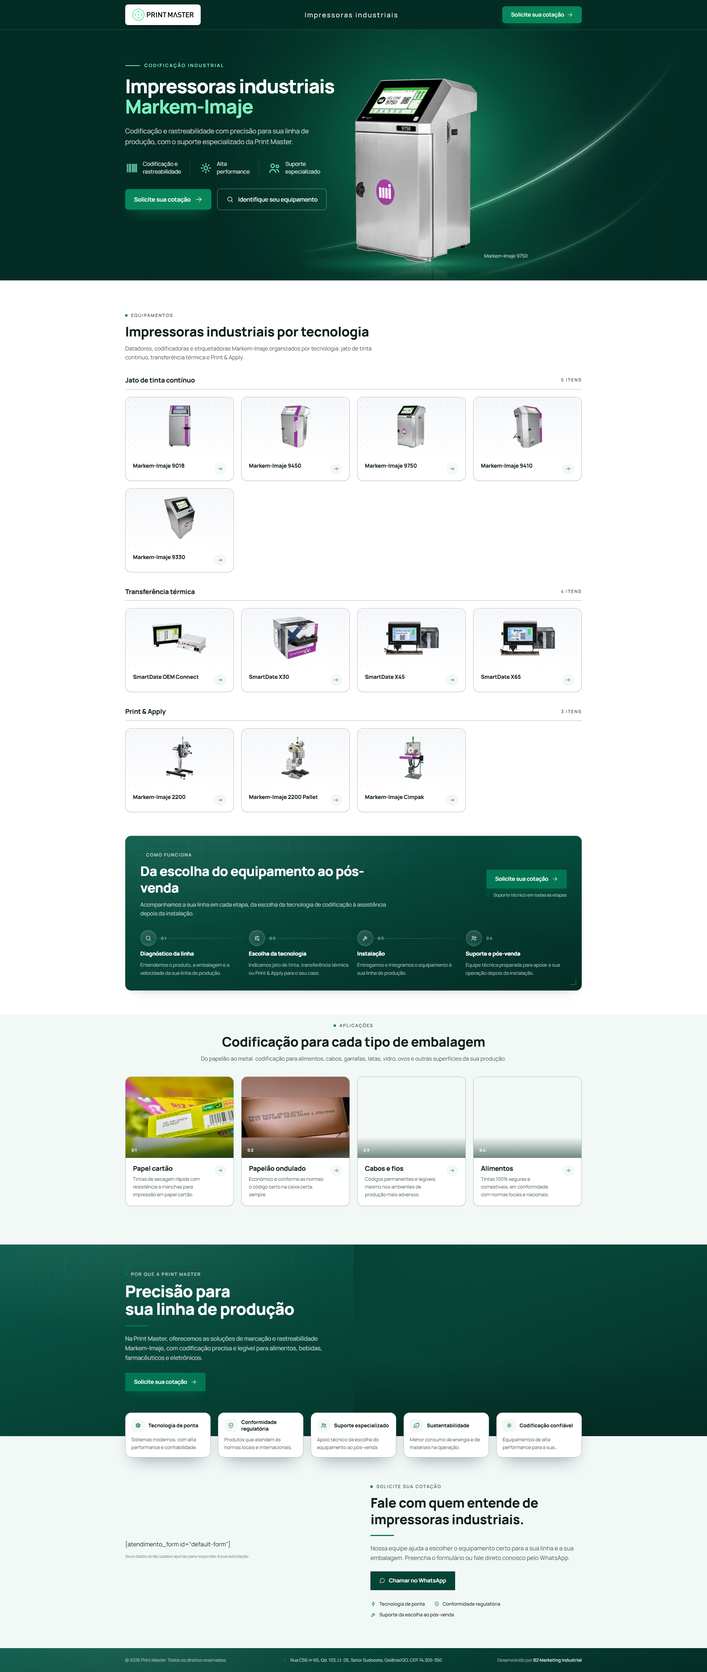
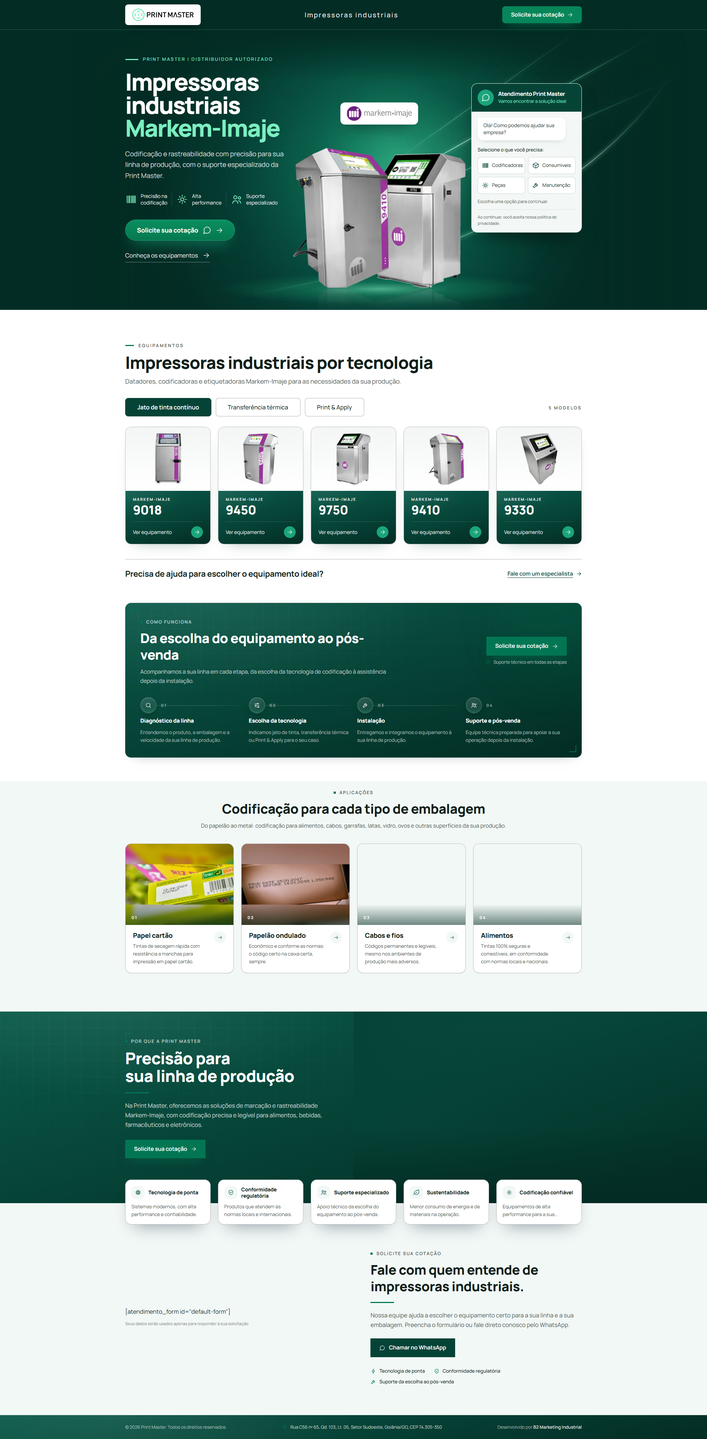
feat: abertura no 2º mockup da Print Master
- eyebrow "Print Master | Distribuidor autorizado" e selo com o logo da
  Markem-Imaje, por decisão do usuário no mockup (registrado no BRIEFING);
- H1 em três linhas com "Markem-Imaje" em menta, destaques compactos
  ("Precisão na codificação", "Alta performance", "Suporte especializado");
- botão em pílula com WhatsApp e link "Conheça os equipamentos" até a
  vitrine (âncora com recuo para o header fixo);
- banner novo com o 9410 e o 9750 lado a lado, halo, feixes de luz e
  reflexo, esmaecido no topo quando encolhe;
- fora do WordPress o shortcode cru do chat vira a prévia do widget de
  atendimento antes da primeira pintura (sem CLS); no WordPress, o chat real.

diff --git a/src/data/content.ts b/src/data/content.ts
@@ -13,6 +13,7 @@ import type { Photo } from './types'
 import { site } from './site'
 
 import heroBg from '@assets/heroBg.png'
+import heroMarca from '@assets/heroMarca.png'
 
 /* ------------------------------------------------------------------ tipos */
 
@@ -48,19 +49,22 @@ export const header = {
 /* -------------------------------------------------------------------- hero */
 
 export const hero = {
-  eyebrow: 'Codificação industrial',
+  /** Selo de distribuidor: decisão do usuário no mockup de abertura (26/10/2026). */
+  eyebrow: 'Print Master | Distribuidor autorizado',
   title: site.product,
-  /** Trecho do H1 que vai para a segunda linha, em menta (mockup de 26/10/2026). */
+  /** Trecho do H1 que vai para a última linha, em menta (mockup de 26/10/2026). */
   highlight: 'Markem-Imaje',
   text: 'Codificação e rastreabilidade com precisão para sua linha de produção, com o suporte especializado da Print Master.',
   banner: {
     src: heroBg,
-    alt: 'Impressora jato de tinta Markem-Imaje 9750 em destaque sobre fundo verde-escuro',
+    alt: 'Impressoras jato de tinta Markem-Imaje 9410 e 9750 lado a lado sobre fundo verde-escuro',
   },
-  /** Legenda do equipamento do banner. */
-  caption: 'Markem-Imaje 9750',
+  /** Selo branco com o logo da marca, acima dos equipamentos. */
+  badge: { src: heroMarca, alt: 'Markem-Imaje' },
+  /** Link que leva à vitrine, no lugar do segundo botão (mockup de 26/10/2026). */
+  link: 'Conheça os equipamentos',
   points: [
-    { icon: 'barcode', line1: 'Codificação e', line2: 'rastreabilidade' },
+    { icon: 'barcode', line1: 'Precisão na', line2: 'codificação' },
     { icon: 'gear', line1: 'Alta', line2: 'performance' },
     { icon: 'users', line1: 'Suporte', line2: 'especializado' },
   ],
@@ -70,8 +74,37 @@ export const hero = {
   highlight: string
   text: string
   banner: Photo
-  caption: string
+  badge: Photo
+  link: string
   points: readonly [HeroPoint, HeroPoint, HeroPoint]
+}
+
+/**
+ * Prévia do chat do hero, só fora do WordPress: no lugar do texto cru do shortcode, a página
+ * mostra como o widget de atendimento aparece (mockup de 26/10/2026). No WordPress o plugin
+ * troca o shortcode pelo chat de verdade e esta prévia não é usada.
+ */
+export const chatPreview = {
+  title: 'Atendimento Print Master',
+  subtitle: 'Vamos encontrar a solução ideal',
+  greeting: 'Olá! Como podemos ajudar sua empresa?',
+  prompt: 'Selecione o que você precisa:',
+  options: [
+    { id: 'codificadoras', icon: 'barcode', label: 'Codificadoras' },
+    { id: 'consumiveis', icon: 'box', label: 'Consumíveis' },
+    { id: 'pecas', icon: 'gear', label: 'Peças' },
+    { id: 'manutencao', icon: 'wrench', label: 'Manutenção' },
+  ],
+  hint: 'Escolha uma opção para continuar.',
+  privacy: 'Ao continuar, você aceita nossa política de privacidade.',
+} as const satisfies {
+  title: string
+  subtitle: string
+  greeting: string
+  prompt: string
+  options: readonly { id: string; icon: IconName; label: string }[]
+  hint: string
+  privacy: string
 }
 
 /* ----------------------------------------------------------------- cotação */

diff --git a/src/styles/global.css b/src/styles/global.css
@@ -48,6 +48,11 @@
     scroll-behavior: smooth;
   }
 
+  /* Âncoras (o "Conheça os equipamentos" do hero) param abaixo do header fixo. */
+  section[id] {
+    scroll-margin-top: 5.5rem;
+  }
+
   body {
     @apply bg-neutral-light font-sans text-ink antialiased;
   }

diff --git a/docs/BRIEFING.md b/docs/BRIEFING.md
@@ -24,7 +24,7 @@
 | Origem                     | informada                                                                                                                                                                                            |
 | Área atendida              | **não confirmada** — o endereço em Goiânia/GO não define a área comercial; a página não diz geografia além do rodapé                                                                                 |
 | Negativas de oferta        | ausentes                                                                                                                                                                                             |
-| Claims proibidos           | ausentes no briefing; ainda assim o selo "Distribuidor autorizado" da página atual ficou de fora (autorização da Markem-Imaje não registrada)                                                        |
+| Claims proibidos           | ausentes no briefing; "Distribuidor autorizado" e o logo da Markem-Imaje entraram no hero por decisão do usuário no mockup de abertura de 26/10/2026, o mesmo uso da página atual do cliente         |
 | Divergência de vocabulário | o cliente diz "impressoras industriais" e "transferência térmica"; a campanha compra também datador, datadeira, codificadora e TTO — o texto da vitrine usa datadores, codificadoras e etiquetadoras |
 
 ### Famílias de palavra-chave
@@ -90,7 +90,7 @@ Derivada em: 26/10/2026 · comando aplicado: `npm run compose -- vitrine process
 | 4   | CONTEXTO_DE_USO         | linhas de produção                                                                  | briefing                                    |
 | 5   | PUBLICO                 | Produção, Engenharia, Qualidade, Compras                                            | **inferido**                                |
 | 6   | HERO                    | codificação e rastreabilidade, alta performance, suporte especializado              | briefing                                    |
-| 7   | MARCAS_ATENDIDAS        | Markem-Imaje, só por extenso                                                        | logo de terceiro sem autorização registrada |
+| 7   | MARCAS_ATENDIDAS        | Markem-Imaje: logo no selo do hero, por extenso no resto                            | decisão do usuário (mockup de 26/10/2026)   |
 | 8   | SELOS_DE_CONFIANCA      | tecnologia de ponta, conformidade regulatória, suporte da escolha ao pós-venda      | briefing                                    |
 | 9   | ENDERECO                | Rua C56 nº 65, Qd. 103, Lt. 05, Setor Sudoeste, Goiânia/GO, CEP 74.305-350          | briefing                                    |
 | 10  | URL_FINAL + PRIVACIDADE | `https://printmaster.net.br/lp-impressoras-industriais-markem-imaje/`; sem política | **inferido** — URL da página atual          |
@@ -104,10 +104,11 @@ Derivada em: 26/10/2026 · comando aplicado: `npm run compose -- vitrine process
 
 > Nenhum asset ficou em `assets.pendentes`: todos os slots receberam imagens da página atual do cliente. Os que estão marcados **provisório** passam no `check:lp`, mas precisam ser trocados pelo material definitivo, mantendo o nome do arquivo.
 
-| Asset          | Arquivo esperado        | Especificação                               | Status                                                                                                                       |
-| -------------- | ----------------------- | ------------------------------------------- | ---------------------------------------------------------------------------------------------------------------------------- |
-| Logo           | `src/assets/LOGO.png`   | logotipo recortado (1040×240), transparente | entregue — logotipo do site, na caixa branca do header (`width={260} height={60}`)                                           |
-| Banner do hero | `src/assets/heroBg.png` | 1981×900, equipamento no centro (50%)       | **provisório** — montagem do mockup de 26/10/2026: 9750 recortado do site com halo, arcos de luz e reflexo sobre fundo verde |
+| Asset          | Arquivo esperado           | Especificação                               | Status                                                                                                                                              |
+| -------------- | -------------------------- | ------------------------------------------- | --------------------------------------------------------------------------------------------------------------------------------------------------- |
+| Logo           | `src/assets/LOGO.png`      | logotipo recortado (1040×240), transparente | entregue — logotipo do site, na caixa branca do header (`width={260} height={60}`)                                                                  |
+| Banner do hero | `src/assets/heroBg.png`    | 1981×900, equipamento no centro (50%)       | **provisório** — montagem do mockup de 26/10/2026: 9410 e 9750 recortados do site, lado a lado, com halo, feixes de luz e reflexo sobre fundo verde |
+| Selo da marca  | `src/assets/heroMarca.png` | logo Markem-Imaje recortado                 | entregue — logo da página atual do cliente                                                                                                          |
 
 | Asset                    | Arquivo esperado                          | Especificação               | Status                                                                                           |
 | ------------------------ | ----------------------------------------- | --------------------------- | ------------------------------------------------------------------------------------------------ |
@@ -118,16 +119,16 @@ Derivada em: 26/10/2026 · comando aplicado: `npm run compose -- vitrine process
 
 ## Desvios locais do padrão
 
-| Arquivo                                                                                             | O que mudou                                                                                                                                                                                                                                                                                            | Por quê                                                                                     |
-| --------------------------------------------------------------------------------------------------- | ------------------------------------------------------------------------------------------------------------------------------------------------------------------------------------------------------------------------------------------------------------------------------------------------------ | ------------------------------------------------------------------------------------------- |
-| `src/styles/global.css`                                                                             | tokens com os verdes da marca; Manrope de `@fontsource-variable/manrope` com reserva de métricas Arial                                                                                                                                                                                                 | entrada 14; a troca tardia do Google Fonts estourou o CLS no Lighthouse CI da LP de locação |
-| `src/layouts/Layout.astro`                                                                          | preload do woff2 latino no lugar dos links do Google Fonts                                                                                                                                                                                                                                             | idem                                                                                        |
-| `src/components/Header.astro`                                                                       | mockup de abertura (26/10/2026): barra verde-escura com fio menta, logo em caixa branca dentro da barra, tagline "Impressoras industriais" e CTA verde arredondado com seta                                                                                                                            | pedido do usuário; ordem logo · tagline · CTA mantida                                       |
-| `src/components/Hero.astro`                                                                         | mockup de abertura (26/10/2026): H1 com "Markem-Imaje" em menta, pontos sem caixa, botões arredondados, banner ancorado pelo centro da coluna 2 (texto 600px · janela · chat 300px) e legenda do equipamento; fora do WordPress o texto cru do shortcode do chat é escondido antes da primeira pintura | pedido do usuário; grid de três colunas e coluna de 300px do chat mantidos                  |
-| `src/components/sections/ProductShowcase.astro`, `src/data/sections/vitrine.ts`, `lp.manifest.json` | variante local do mockup da vitrine (26/10/2026): grupos em abas acessíveis com a contagem de modelos, cards com foto grande e painel verde-escuro (marca, modelo em destaque, "Ver equipamento"), faixa "Precisa de ajuda…" com o CTA `vitrine-ajuda`                                                 | pedido do usuário; **o `compose` sobrescreve o componente** — reaplicar após recompor       |
-| `scripts/check-lp.mjs`                                                                              | assinaturas A8 do Header e do Hero repinadas, com comentário datado                                                                                                                                                                                                                                    | o redesenho do mockup trocou as classes que o check conferia                                |
-| `src/components/sections/ProcessSteps.astro`, `WhyBrand.astro`                                      | brilho do botão em `rgba(2,118,83,0.6)` no lugar do laranja fixo                                                                                                                                                                                                                                       | idem; **o `compose` sobrescreve estes dois** — reaplicar após recompor                      |
-| `src/components/BrandCarousel.astro`, `src/data/brands.ts`, `src/assets/brands/`                    | removidos                                                                                                                                                                                                                                                                                              | nenhuma seção da composição usa o carrossel (regra 12)                                      |
+| Arquivo                                                                                             | O que mudou                                                                                                                                                                                                                                            | Por quê                                                                                                                                                                                                                                                                                                                                                                                                                                                                                                |
+| --------------------------------------------------------------------------------------------------- | ------------------------------------------------------------------------------------------------------------------------------------------------------------------------------------------------------------------------------------------------------ | ------------------------------------------------------------------------------------------------------------------------------------------------------------------------------------------------------------------------------------------------------------------------------------------------------------------------------------------------------------------------------------------------------------------------------------------------------------------------------------------------------ |
+| `src/styles/global.css`                                                                             | tokens com os verdes da marca; Manrope de `@fontsource-variable/manrope` com reserva de métricas Arial                                                                                                                                                 | entrada 14; a troca tardia do Google Fonts estourou o CLS no Lighthouse CI da LP de locação                                                                                                                                                                                                                                                                                                                                                                                                            |
+| `src/layouts/Layout.astro`                                                                          | preload do woff2 latino no lugar dos links do Google Fonts                                                                                                                                                                                             | idem                                                                                                                                                                                                                                                                                                                                                                                                                                                                                                   |
+| `src/components/Header.astro`                                                                       | mockup de abertura (26/10/2026): barra verde-escura com fio menta, logo em caixa branca dentro da barra, tagline "Impressoras industriais" e CTA verde arredondado com seta                                                                            | pedido do usuário; ordem logo · tagline · CTA mantida                                                                                                                                                                                                                                                                                                                                                                                                                                                  |
+| `src/components/Hero.astro`, `src/data/content.ts`                                                  | 2º mockup de abertura (26/10/2026): eyebrow "Print Master                                                                                                                                                                                              | Distribuidor autorizado", H1 em três linhas com "Markem-Imaje" em menta, pontos sem caixa, botão em pílula com WhatsApp e link "Conheça os equipamentos" (âncora `#vitrine`, `data-cta="hero-secondary"`), selo Markem-Imaje sobre o 9410 e o 9750, banner ancorado pelo centro da coluna 2 (texto 440px · janela · chat 300px); fora do WordPress o shortcode cru do chat vira a prévia do widget (CTAs `hero-chat-codificadoras`, `-consumiveis`, `-pecas`, `-manutencao`) antes da primeira pintura | pedido do usuário; grid de três colunas e coluna de 300px do chat mantidos; o botão flutuante de WhatsApp do mockup espera o número comercial |
+| `src/components/sections/ProductShowcase.astro`, `src/data/sections/vitrine.ts`, `lp.manifest.json` | variante local do mockup da vitrine (26/10/2026): grupos em abas acessíveis com a contagem de modelos, cards com foto grande e painel verde-escuro (marca, modelo em destaque, "Ver equipamento"), faixa "Precisa de ajuda…" com o CTA `vitrine-ajuda` | pedido do usuário; **o `compose` sobrescreve o componente** — reaplicar após recompor                                                                                                                                                                                                                                                                                                                                                                                                                  |
+| `scripts/check-lp.mjs`                                                                              | assinaturas A8 do Header e do Hero repinadas, com comentário datado                                                                                                                                                                                    | o redesenho do mockup trocou as classes que o check conferia                                                                                                                                                                                                                                                                                                                                                                                                                                           |
+| `src/components/sections/ProcessSteps.astro`, `WhyBrand.astro`                                      | brilho do botão em `rgba(2,118,83,0.6)` no lugar do laranja fixo                                                                                                                                                                                       | idem; **o `compose` sobrescreve estes dois** — reaplicar após recompor                                                                                                                                                                                                                                                                                                                                                                                                                                 |
+| `src/components/BrandCarousel.astro`, `src/data/brands.ts`, `src/assets/brands/`                    | removidos                                                                                                                                                                                                                                              | nenhuma seção da composição usa o carrossel (regra 12)                                                                                                                                                                                                                                                                                                                                                                                                                                                 |
 
 ## Conflitos com o padrão
 
@@ -137,7 +138,6 @@ Nenhum.
 
 - Locação de impressoras Ricoh e outsourcing de impressão (outra oferta, já atendida pela LP de locação).
 - Termo "hot stamping", pausado na lista de palavras-chave.
-- Selo "Distribuidor autorizado" da página atual — autorização da Markem-Imaje não registrada.
 - "Desde 2003" — sem fonte e aprovação para virar prova nesta LP.
 - CNPJ — dado legal, sem bloco previsto no footer padrão.
 - Aplicações excedentes (vidro, filmes flexíveis, garrafas plásticas, latas e tampas, peças de metal e plástico, plásticos extrudados, tampas) — citadas no texto de `aplicacoes`.

diff --git a/docs/FICHA-LP.md b/docs/FICHA-LP.md
@@ -64,7 +64,7 @@ publico: [Produção, Engenharia, Qualidade, Compras]
 marcas:
   usarLogos: false
   nomes: [Markem-Imaje]
-  autorizacao: logo da Markem-Imaje sem autorização de uso registrada — a página cita a marca só por extenso
+  autorizacao: logo da Markem-Imaje no selo do hero e "Distribuidor autorizado" no eyebrow — decisão do usuário no mockup de abertura de 26/10/2026, o mesmo uso da página atual do cliente
 
 tokens:
   padrao: false
@@ -78,14 +78,14 @@ conteudo:
   title: Impressoras industriais Markem-Imaje para codificação | Print Master
   description: 'Impressoras industriais Markem-Imaje para codificação e rastreabilidade: jato de tinta, transferência térmica e Print & Apply, com suporte especializado.'
   hero:
-    eyebrow: Codificação industrial
+    eyebrow: 'Print Master | Distribuidor autorizado'
     title: Impressoras industriais Markem-Imaje
     # texto e pontos do mockup de abertura aprovado em 26/10/2026
     text: Codificação e rastreabilidade com precisão para sua linha de produção, com o suporte especializado da Print Master.
     points:
       - icon: barcode
-        line1: Codificação e
-        line2: rastreabilidade
+        line1: Precisão na
+        line2: codificação
       - icon: gear
         line1: Alta
         line2: performance
@@ -301,7 +301,6 @@ conflitos: []
 naoAplicado:
   - locação de impressoras Ricoh e outsourcing de impressão (outra oferta, já atendida pela LP de locação)
   - termo "hot stamping", pausado na lista de palavras-chave
-  - selo "Distribuidor autorizado" da página atual (autorização da Markem-Imaje não registrada no briefing)
   - '"Desde 2003" (sem fonte e aprovação para virar prova institucional nesta LP)'
   - CNPJ (dado legal, sem bloco previsto no footer padrão)
   - aplicações excedentes (vidro, filmes flexíveis, garrafas plásticas, latas e tampas, peças de metal e plástico, plásticos extrudados, tampas) — citadas no texto da seção
@@ -317,7 +316,7 @@ LP de produto para a campanha de impressoras industriais da Print Master, com a 
 
 A oferta abre em `vitrine`, com os 12 modelos da página atual em três prateleiras por tecnologia: jato de tinta contínuo (9018, 9450, 9750, 9410, 9330), transferência térmica (SmartDate OEM Connect, X30, X45, X65) e Print & Apply (2200, 2200 Pallet, Cimpak). Sem descrição por modelo — o material não tem, e a vitrine é tudo ou nada. Os modelos 9450 e SmartDate X45, comprados por nome na campanha, aparecem na vitrine. O apoio mostra o caminho do atendimento em `processo`. A prova usa as quatro aplicações priorizadas pelo briefing em `aplicacoes`, e o texto da seção cita os demais materiais (metal, garrafas, latas, vidro, ovos). A autoridade fecha com a frase de autoridade "Precisão para sua linha de produção" e os cinco diferenciais do briefing.
 
-A Markem-Imaje aparece **só por extenso**: o logo de terceiro não tem autorização registrada. O selo "Distribuidor autorizado" da página atual ficou de fora pelo mesmo motivo.
+O logo da Markem-Imaje (selo branco do hero) e o eyebrow "Print Master | Distribuidor autorizado" entraram por decisão do usuário no mockup de abertura de 26/10/2026, o mesmo uso da página atual do cliente. No resto da página a marca aparece por extenso.
 
 As cores são os verdes da marca já aprovados pelo cliente na LP de locação (26/10/2026); a estrutura fixa segue o padrão.
 
@@ -362,23 +361,23 @@ As imagens são as da página atual do cliente, nos slots posicionais do padrão
 
 ## Pendências
 
-| O que falta                                     | Quem resolve        | Especificação                                                                                               |
-| ----------------------------------------------- | ------------------- | ----------------------------------------------------------------------------------------------------------- |
-| Banner do hero                                  | designer            | 1981×900, fundo escuro, equipamento na faixa de 62–79% da largura; hoje é uma montagem com o 9750 recortado |
-| Fotos das aplicações em alta                    | cliente ou banco    | as do site têm 165 a 235 px de altura; pedir 1200×900                                                       |
-| Pessoa da equipe recortada                      | cliente ou designer | 1220×1000 com fundo transparente; hoje entram três equipamentos recortados do site                          |
-| Cenário de diferenciais                         | cliente ou banco    | 1600×900; hoje é a foto de garrafa de vidro da página atual                                                 |
-| Área comercial atendida                         | cliente             | habilita selo de área na cotação                                                                            |
-| Validar a sequência de `processo`               | cliente             | inferida (diagnóstico, tecnologia, instalação, suporte); sem prazos                                         |
-| Público (cargos que decidem)                    | cliente             | inferido: Produção, Engenharia, Qualidade, Compras                                                          |
-| Uso do logo Markem-Imaje e do selo "autorizado" | cliente             | autorização por escrito da Markem-Imaje                                                                     |
-| Descrição de cada modelo                        | cliente             | 1 frase de 50–90 caracteres para todos os 12 (ou nenhum)                                                    |
-| Modelos laser                                   | cliente             | a palavra-chave "impressão a laser" não tem modelo na página                                                |
-| Especificações comparáveis                      | cliente             | habilitaria `especificacoes` (tabela técnica)                                                               |
-| Os 6 dados para cotar um equipamento            | comercial           | habilitaria `identificar` no apoio                                                                          |
-| Lista de dúvidas reais                          | comercial           | habilitaria `perguntas` na autoridade                                                                       |
-| WhatsApp comercial                              | cliente             | número com DDD; liga o botão flutuante                                                                      |
-| Política de privacidade                         | cliente             | link para a nota de LGPD                                                                                    |
+| O que falta                          | Quem resolve        | Especificação                                                                                                  |
+| ------------------------------------ | ------------------- | -------------------------------------------------------------------------------------------------------------- |
+| Banner do hero                       | designer            | 1981×900, fundo escuro, equipamento na faixa de 62–79% da largura; hoje é uma montagem com o 9750 recortado    |
+| Fotos das aplicações em alta         | cliente ou banco    | as do site têm 165 a 235 px de altura; pedir 1200×900                                                          |
+| Pessoa da equipe recortada           | cliente ou designer | 1220×1000 com fundo transparente; hoje entram três equipamentos recortados do site                             |
+| Cenário de diferenciais              | cliente ou banco    | 1600×900; hoje é a foto de garrafa de vidro da página atual                                                    |
+| Área comercial atendida              | cliente             | habilita selo de área na cotação                                                                               |
+| Validar a sequência de `processo`    | cliente             | inferida (diagnóstico, tecnologia, instalação, suporte); sem prazos                                            |
+| Público (cargos que decidem)         | cliente             | inferido: Produção, Engenharia, Qualidade, Compras                                                             |
+| Registro da autorização Markem-Imaje | cliente             | logo e "distribuidor autorizado" já estão na página por decisão do usuário; arquivar a autorização por escrito |
+| Descrição de cada modelo             | cliente             | 1 frase de 50–90 caracteres para todos os 12 (ou nenhum)                                                       |
+| Modelos laser                        | cliente             | a palavra-chave "impressão a laser" não tem modelo na página                                                   |
+| Especificações comparáveis           | cliente             | habilitaria `especificacoes` (tabela técnica)                                                                  |
+| Os 6 dados para cotar um equipamento | comercial           | habilitaria `identificar` no apoio                                                                             |
+| Lista de dúvidas reais               | comercial           | habilitaria `perguntas` na autoridade                                                                          |
+| WhatsApp comercial                   | cliente             | número com DDD; liga o botão flutuante                                                                         |
+| Política de privacidade              | cliente             | link para a nota de LGPD                                                                                       |
 
 ## Conflitos com o padrão
 
@@ -386,4 +385,4 @@ Nenhum.
 
 ## Dados não usados pelo padrão
 
-Locação de impressoras Ricoh e outsourcing de impressão (outra oferta); termo "hot stamping" (pausado); selo "Distribuidor autorizado"; "Desde 2003"; CNPJ; aplicações excedentes (citadas no texto de `aplicacoes`); "Print Master 2026 | Todos direitos reservados" (o footer gera o ano).
+Locação de impressoras Ricoh e outsourcing de impressão (outra oferta); termo "hot stamping" (pausado); "Desde 2003"; CNPJ; aplicações excedentes (citadas no texto de `aplicacoes`); "Print Master 2026 | Todos direitos reservados" (o footer gera o ano).
